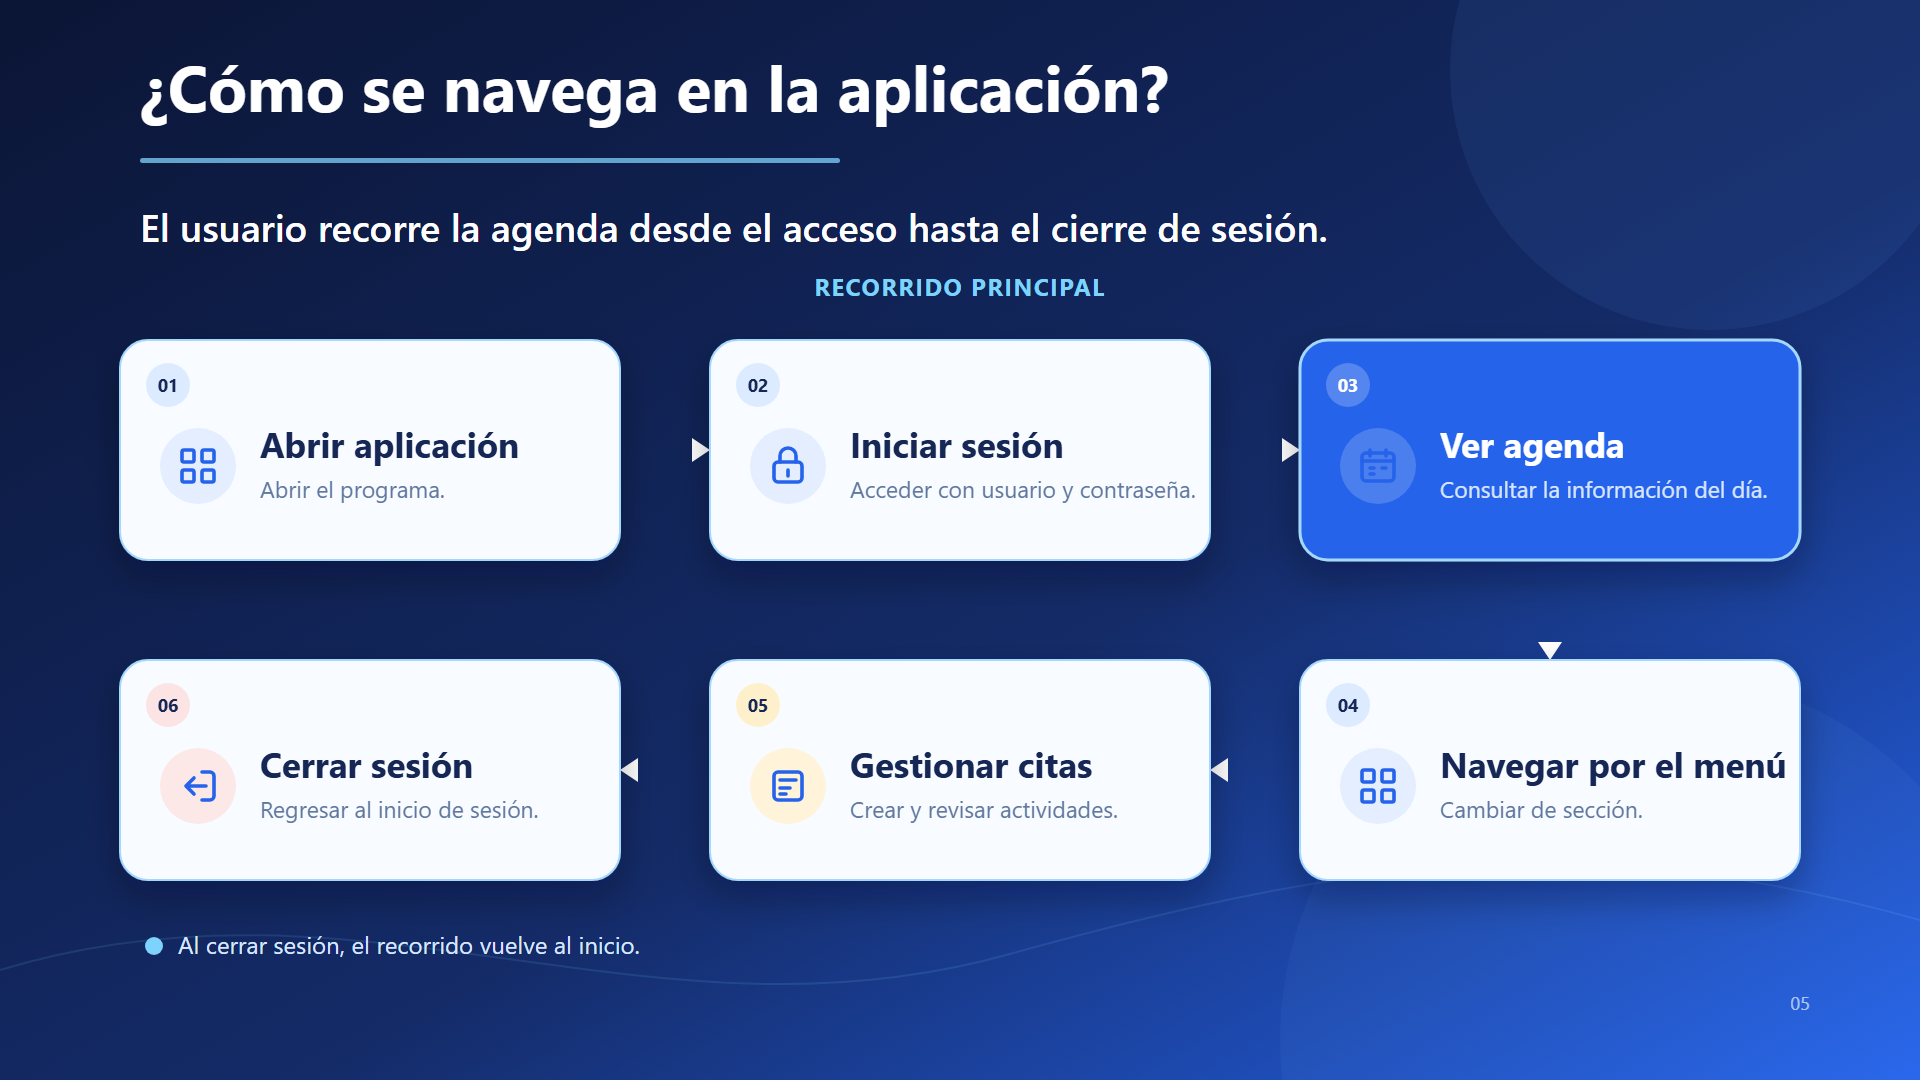
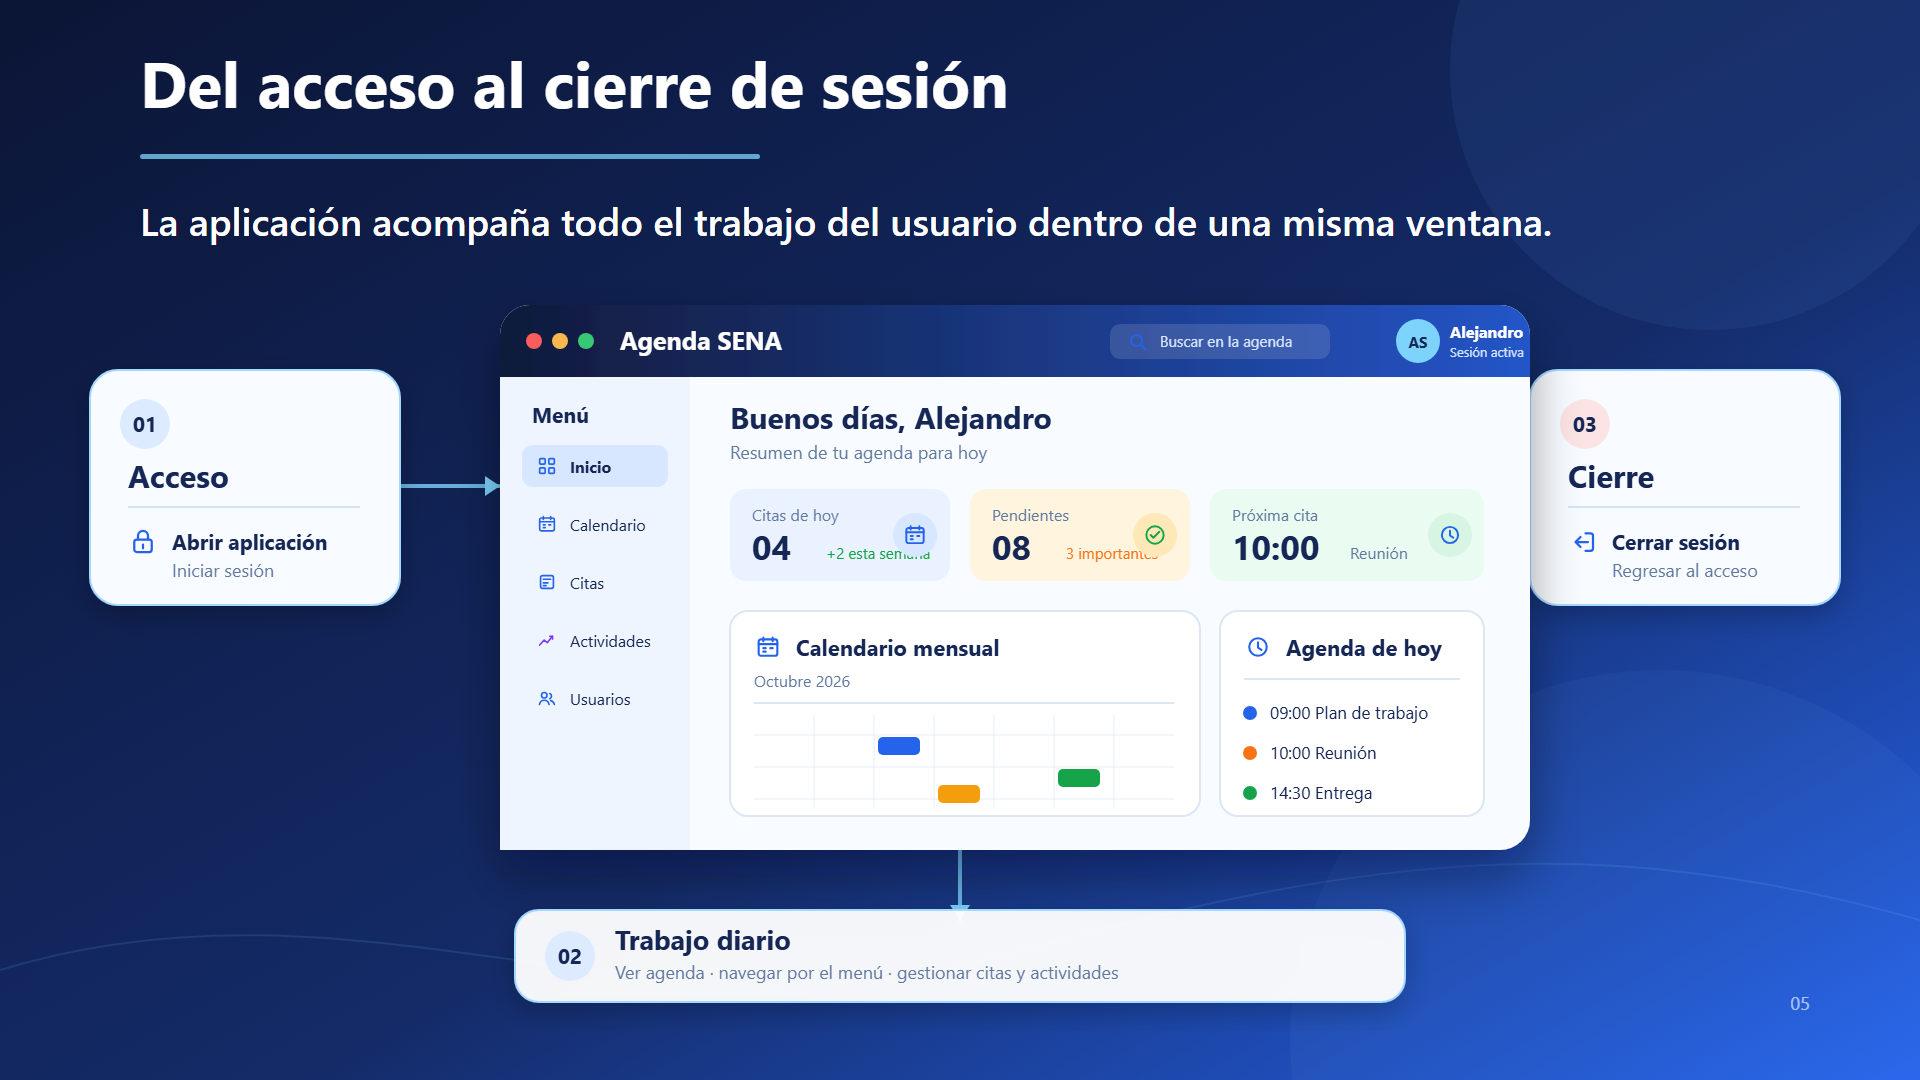
Replantear contenido y diseno de diapositiva 05

diff --git a/docs/pt/presentation.md b/docs/pt/presentation.md
@@ -296,51 +296,67 @@ docs/pt/img/04_two_states.png
 
 ---
 
-# Diapositiva 05 — Flujo de navegación
+# Diapositiva 05 — Recorrido de la aplicación
 
 ## Texto literal
 
-**¿Cómo se navega en la aplicación?**
+**Del acceso al cierre de sesión**
 
-**El usuario sigue un flujo sencillo y continuo:**
+**La aplicación acompaña todo el trabajo del usuario dentro de una misma
+ventana.**
 
-**Abrir aplicación → Iniciar sesión → Ver agenda → Navegar por el menú →
-Gestionar citas y actividades → Cerrar sesión**
+### Momento 01 — Acceso
 
-**Al cerrar sesión, la aplicación regresa al inicio de sesión.**
+**Abrir aplicación**
+
+Abrir el programa.
+
+**Iniciar sesión**
+
+Acceder con usuario y contraseña.
+
+### Momento 02 — Trabajo diario
+
+**Ver agenda · navegar por el menú · gestionar citas y actividades**
+
+Consultar y actualizar la información desde la ventana principal.
+
+### Momento 03 — Cierre
+
+**Cerrar sesión**
+
+Regresar al acceso.
 
 ## Distribución
 
-- Colocar el título arriba.
-- Ubicar el flujo principal en el centro, de izquierda a derecha.
-- Dividirlo en seis pasos numerados.
-- Colocar la frase final en la parte inferior.
-- Usar flechas amplias y claras entre cada paso.
+- Colocar el título y una frase breve en la parte superior.
+- Usar una ventana grande de Agenda SENA como elemento visual central.
+- Ubicar `Acceso` a la izquierda de la ventana.
+- Ubicar `Cierre` a la derecha de la ventana.
+- Ubicar `Trabajo diario` debajo de la ventana.
+- Conectar los tres momentos con flechas amplias y discretas.
+- Mantener la ventana central como el elemento dominante de la composición.
 
 ## Imagen o representación visual
 
-Crear un diagrama horizontal con seis nodos redondeados:
+Crear una composición centrada en una sola ventana de Agenda SENA. La ventana
+debe mostrar el menú lateral, un resumen de citas, el calendario mensual y una
+lista de actividades.
 
-1. `Abrir`.
-2. `Login`.
-3. `Agenda`.
-4. `Menú`.
-5. `Citas`.
-6. `Cerrar sesión`.
+Al lado izquierdo, mostrar el momento `Acceso` con los pasos `Abrir aplicación`
+y `Iniciar sesión`. Al lado derecho, mostrar el momento `Cierre` con `Cerrar
+sesión` y `Regresar al acceso`. Debajo de la ventana, mostrar `Trabajo diario`
+con `Ver agenda`, `navegar por el menú` y `gestionar citas y actividades`.
 
-Cada nodo debe tener un icono y una etiqueta corta. El nodo `Agenda` debe ser
-el más grande o usar el azul principal para marcarlo como el centro del flujo.
-Después de `Cerrar sesión`, dibujar una flecha curva que regrese al nodo
-`Login`.
+La imagen debe comunicar que el usuario trabaja dentro de una misma ventana y
+que la navegación cambia el contenido de la agenda, no el programa completo.
 
 ## Iconos
 
-- Ventana de aplicación.
-- Usuario o candado.
-- Panel de agenda.
-- Menú lateral.
-- Calendario o lista.
-- Flecha de regreso.
+- Candado para el acceso.
+- Ventana de aplicación y calendario para el trabajo diario.
+- Cerrar sesión para el cierre.
+- Flechas simples para conectar los tres momentos.
 
 ## Archivo de imagen posterior
 
